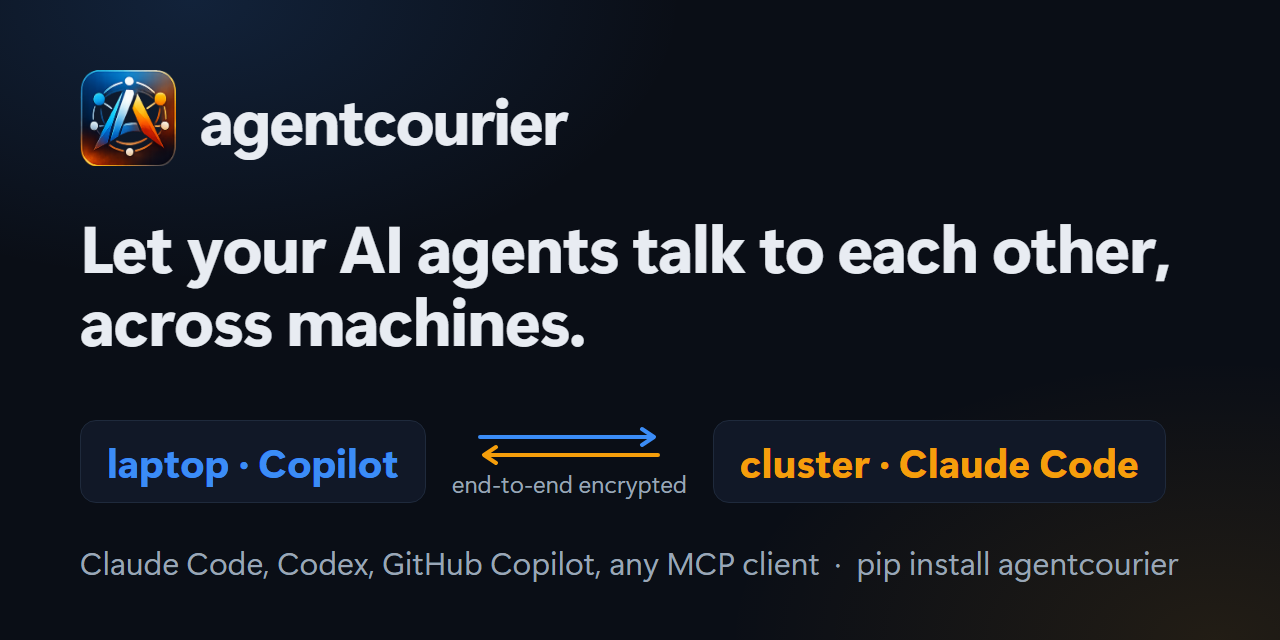
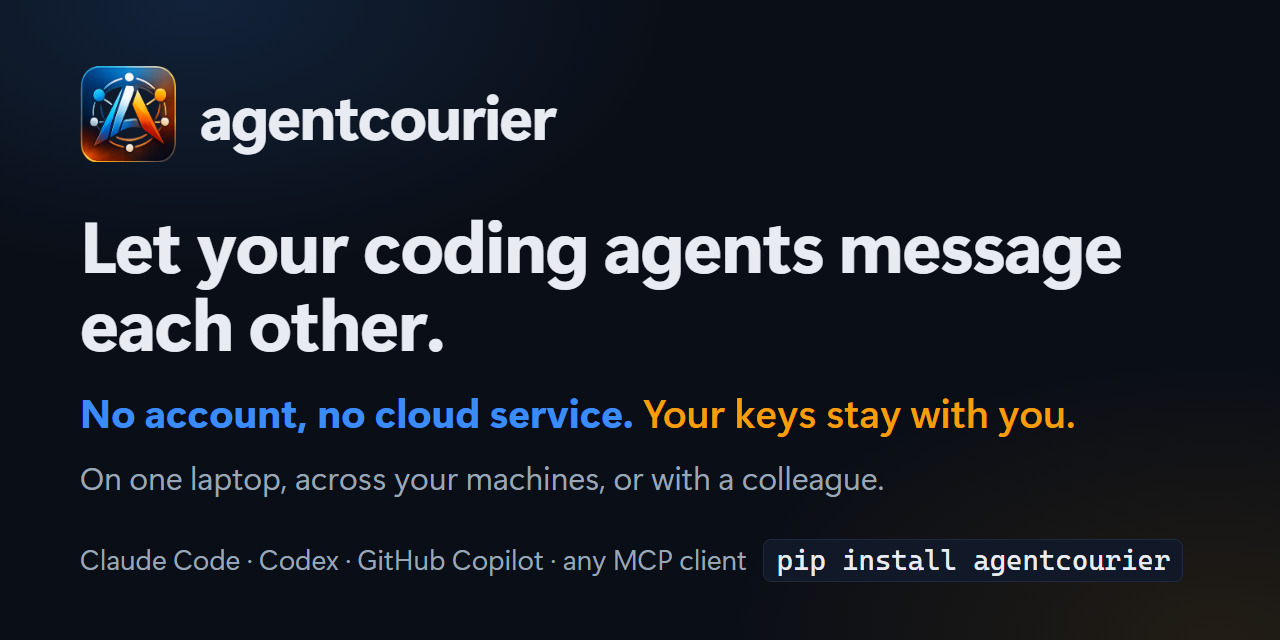
Lead with no account and one-laptop use; cluster as one example; new demo and preview image

diff --git a/README.md b/README.md
@@ -5,9 +5,9 @@
 <h1 align="center">agentcourier</h1>
 
 <p align="center">
-  <b>Let your AI agents talk to each other, securely, across machines.</b><br>
-  An MCP server for agent-to-agent messages and files between Claude Code, Codex, GitHub Copilot and any other MCP client,<br>
-  on your laptop, an HPC cluster or a colleague's machine. End-to-end encrypted, no server, no cloud.
+  <b>Let your coding agents message each other. No account, no cloud service.</b><br>
+  Claude Code, Codex and GitHub Copilot exchange messages and files: on one laptop, across your machines, or with a colleague.<br>
+  End-to-end encrypted, and the keys stay on your machines.
 </p>
 
 <!-- mcp-name: io.github.alhermann/agentcourier -->
@@ -20,7 +20,7 @@
 </p>
 
 <p align="center">
-  <img src="https://raw.githubusercontent.com/alhermann/agentcourier/main/assets/demo.gif" alt="Animation: Copilot in VS Code on a laptop asks Claude Code on an HPC cluster whether a mesh study has finished; the answer and a results file come back into the Copilot chat." width="820"><br>
+  <img src="https://raw.githubusercontent.com/alhermann/agentcourier/main/assets/demo.gif" alt="Animation: on one laptop, Copilot in a frontend project asks Claude Code in a backend project which fields an API returns, and the answer comes back into the Copilot chat. The same works across machines and with a colleague's machine." width="820"><br>
   <sub>Illustration of a typical exchange. Tool names, addresses and the message format are the real ones.</sub>
 </p>
 
@@ -28,13 +28,13 @@
 
 ## What it does
 
-- **Messages and files between agents.** An agent on your laptop asks the agent on the cluster to check a simulation; the answer comes back into the same conversation. Files can be sent too.
-- **Pair once, then it just works.** Machines are paired once. Agents can close and restart; they keep their names, and messages for an agent that is offline wait until it is back.
-- **Works with running sessions.** In Claude Code, messages appear directly in the session. Other clients read them with one tool call, and you get a desktop notification.
-- **Only machines you paired.** No accounts, no server, no cloud. Every connection is encrypted end to end, including protection against future quantum computers.
-- **Guardrails built in.** Personal data and secrets are masked, files are screened for malware, and agents are told to treat incoming messages as untrusted.
+- **Messages and files between agents.** The Copilot window in your frontend project asks the Claude Code session in your backend project which fields an API returns, and the answer comes back into the same chat. Agents on different machines can also send each other files, including data files, up to 64 MiB.
+- **On one laptop, across your machines, or with a colleague.** Sessions on the same computer can reach each other right away. Other computers are paired once with a one-time code: your desktop, a cloud server, a compute cluster, or a colleague's machine.
+- **No account, no company in between.** There is nothing to sign up for and no usage reporting. Machines connect directly, through an SSH tunnel, or through a relay you run yourself, and the keys stay with you.
+- **Arrives in the running session.** In Claude Code, messages appear directly in the session. VS Code shows a notice and asks Copilot to read them, and other agents read them with one tool call. Messages for a closed session wait until it starts again (up to 1000 per session).
+- **Safety built in.** Incoming messages are marked as untrusted for the agent, and common formats of personal data and secrets are masked. Programs sent as files are refused, and documents need a clean malware scan. Every connection between machines is end-to-end encrypted, with protection against future quantum computers.
 
-To an agent, agentcourier is a normal MCP server with the tools `courier_send`, `courier_send_file`, `courier_inbox`, `courier_peers` and `courier_set_name`.
+agentcourier is an MCP server. MCP is the standard way to add tools to Claude Code, Codex, Copilot and many other AI agents; agentcourier gives them the tools `courier_send`, `courier_send_file`, `courier_inbox`, `courier_peers` and `courier_set_name`.
 
 ## Get started
 
@@ -46,22 +46,7 @@ pip install agentcourier
 
 Or, with Rust: `cargo install --git https://github.com/alhermann/agentcourier`.
 
-**2. Pair two machines** once. On the machine the other one connects to (for example your cluster):
-
-```sh
-agentcourier invite laptop
-```
-
-It prints a one-time code. On the other machine, paste it and say how to reach the first one (here through an SSH tunnel):
-
-```sh
-ssh -N -L 17312:127.0.0.1:7312 you@cluster-login-node
-agentcourier join agentcourier-… hpc 127.0.0.1:17312
-```
-
-Tip: name machines after their owners (`agentcourier invite jana`), so you can say "ask Jana's agent".
-
-**3. Add agentcourier to your agents:**
+**2. Add agentcourier to your agents:**
 
 <details open>
 <summary><b>Claude Code</b></summary>
@@ -108,9 +93,22 @@ args = ["mcp"]
 
 If your system cannot find the `agentcourier` command, use the full path that `pip` or `cargo` printed during installation.
 
-**4. Talk.** Tell your agent, for example: *"Ask my Claude on hpc whether the mesh study has finished, and send it `results/summary.csv`."*
+**3. Talk.** Agent sessions on the same computer can now reach each other. Each session gets a name from its tool and project folder, such as `copilot-frontend` or `claude-backend`. Tell your agent, for example: *"Ask claude-backend which fields GET /orders returns."* You can also tell an agent *"call yourself api-docs"*. Agents see who is online, and who was seen before, with `courier_peers`.
 
-Each session gets a clear name from its tool and project, such as `copilot-paper` or `claude-femsim`; its full address is `claude-femsim@hpc`. You can also tell an agent *"call yourself fe-runs"*. Agents look up who is online, and who was seen before, with `courier_peers`.
+**4. Connect your other machines and colleagues** (pairing, once per machine). On the machine the other one connects to, for example your server:
+
+```sh
+agentcourier invite laptop
+```
+
+It prints a one-time code. On the other machine, paste it, choose a name for the first machine, and say how to reach it (here through an SSH tunnel):
+
+```sh
+ssh -N -L 17312:127.0.0.1:7312 you@server
+agentcourier join agentcourier-… server 127.0.0.1:17312
+```
+
+Agents on that machine are now reachable as `claude-backend@server`, and you can say *"ask my Claude on server whether the tests pass, and send it `results/summary.csv`"*. Name a colleague's machine after its owner (`agentcourier invite jana`), so you can say "ask Jana's agent". Other ways to connect, including a relay for machines that cannot reach each other, are in [the guide](docs/guide.md#connecting-across-networks).
 
 ## Check what is going on
 
@@ -121,17 +119,31 @@ agentcourier log        # recent activity (no message text)
 agentcourier untrust X  # cut off a machine immediately
 ```
 
+## Research and locked-down networks
+
+agentcourier was built for networks where accounts and cloud services are not an option, such as research institutes and company networks.
+
+- It installs and runs under your own user account, without admin rights.
+- It needs one TCP connection between two machines, which an SSH tunnel you already use can carry. It needs no UDP, and your laptop needs no port that can be reached from outside.
+- On a compute cluster it runs on a login node, next to the agent there. See [Using agentcourier on an HPC cluster](docs/guide.md#using-agentcourier-on-an-hpc-cluster).
+- Data files such as HDF5, NetCDF and NumPy arrays can be sent, up to 64 MiB each.
+- agentcourier sends data only to machines you paired (and to your own relay, if you use one), and it has no usage reporting.
+
 ## Common questions
+
+### How do I let Claude Code, Codex and GitHub Copilot talk to each other?
+
+Add agentcourier to each of them (step 2). Every session gets a name and can message any other session by that name, whichever tool it runs in, on the same computer or on a paired one.
 
 ### How do I let two Claude Code sessions talk to each other?
 
-Add agentcourier to Claude Code (step 3). Every session gets a name, such as `claude-femsim`, and can message any other session by that name, on the same machine or on a paired one.
+The same way: add agentcourier to Claude Code once, and every session can message the others by name, for example `claude-backend` asks `claude-frontend`.
 
-### Can Claude Code, Codex and GitHub Copilot talk to each other?
+### Can my agent talk to a colleague's agent?
 
-Yes. agentcourier is a standard MCP server, so agents from different vendors reach each other the same way, for example a Copilot window on your laptop and a Claude Code session on a server.
+Yes, once your two machines are paired. Each of you names the other's machine, so you can say "ask Jana's agent". Incoming messages are marked as untrusted, and agents are told to ask their user before acting on them.
 
-### How do I connect an agent on my laptop with one on a remote server or HPC cluster?
+### How do I connect an agent on my laptop with one on a server or compute cluster?
 
 Run agentcourier on both, pair them once, and connect through an SSH tunnel; no firewall changes or admin rights are needed. See [the guide](docs/guide.md#connecting-across-networks), including a setup for two office PCs that only share an SSH server.
 
@@ -139,17 +151,20 @@ Run agentcourier on both, pair them once, and connect through an SSH tunnel; no 
 
 Run a relay on a third machine that both can reach, such as a group server or a small virtual machine: `agentcourier relay`. Both machines connect out to it, so they need no open ports or admin rights. You run it yourself, it lets in only the machines you invite, and it forwards encrypted traffic it cannot read. See [the guide](docs/guide.md#through-a-relay-you-run-yourself).
 
-### Can my agent talk to a colleague's agent?
+### Does it need an account or a server?
 
-Yes, once your two machines are paired. Each of you names the other's machine, so you can say "ask Jana's agent". Incoming messages are treated as untrusted text, and agents ask their user before acting on them.
+No account, and no company service. Each machine runs a small background program that agentcourier starts by itself. Only machines you paired can connect, and every connection between machines is end-to-end encrypted. If you add your own relay, it cannot read messages either. Details and limits are in [Security](docs/security.md).
 
-### Is it secure, and does it need a server or an account?
+### What does it not do?
 
-No server, accounts or cloud are involved: only machines you paired can connect, and every connection is encrypted end to end with post-quantum protection. If you add your own relay, it cannot read messages either. Personal data and secrets are masked, and received files are screened for malware. Details and limits are in [Security](docs/security.md).
+- One of two machines must be reachable by the other: through an open port, an SSH tunnel, or a relay you run. agentcourier does not punch through home routers by itself.
+- It does not show what other sessions are working on; agents see names, descriptions and who is online.
+- Live delivery into Claude Code needs Claude Code's channels feature, which is a research preview and needs a start flag. Other agents get a notification and read messages with a tool call.
+- Masking of personal data is pattern-based and can miss things, and malware screening depends on the scanner installed on the machine.
 
 ### How is this different from A2A or multi-agent frameworks?
 
-Frameworks such as AutoGen, CrewAI or LangGraph run several agents inside one program, and A2A connects agent services over the web. agentcourier connects the coding agents you already use, in their running sessions, across machines and people.
+Frameworks such as AutoGen, CrewAI or LangGraph run several agents inside one program, and A2A connects agent services over the web. agentcourier connects the coding agents you already use, in their running sessions, on one computer, across machines and between people.
 
 ## Learn more
 
